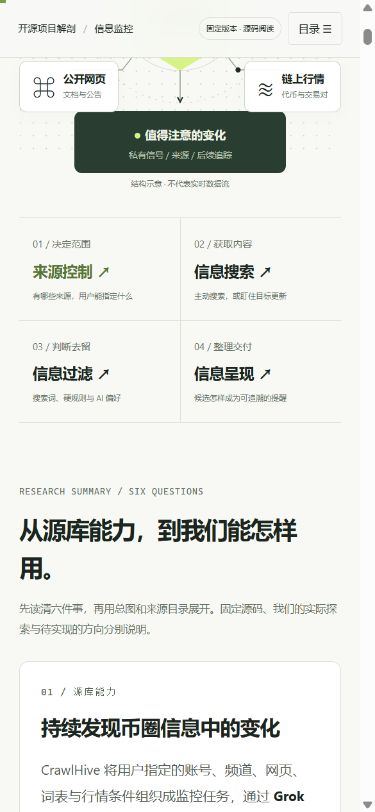
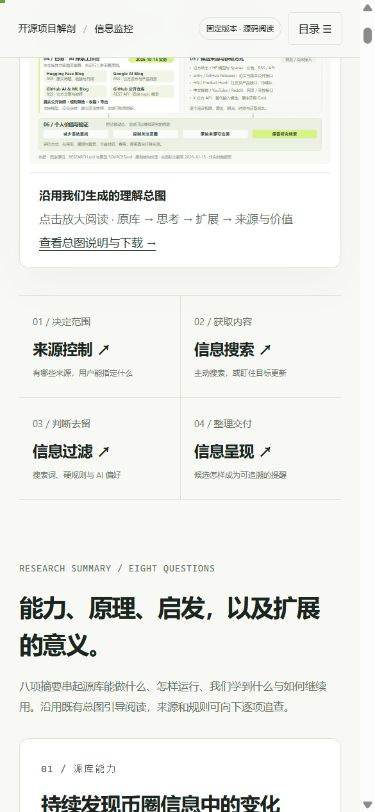
docs(013): 保存八项摘要版本的公网验收与原图沿用记录

diff --git a/projects/013-crawl-hive/README.md b/projects/013-crawl-hive/README.md
@@ -86,7 +86,7 @@ npm run refresh:data
 
 ## 公开部署与验证
 
-已通过既有GitHub Actions发布，完整站点保留原七个项目。26份首发静态文件、19个入口与资料地址、101个唯一页面编号已核对；浏览器确认摘要、来源筛选、工作台快照与桌面／手机布局。公开构建不请求采集API或本机地址，不含服务端和运行缓存。完整记录见[部署记录](deployment.json)与[HTTP验收](public-verification.json)。
+已通过既有GitHub Actions发布，完整站点保留原七个项目。首发26份静态文件、19个入口与101个页面编号的记录保留；本次八项摘要更新后，28份静态文件字节、19个入口与资料地址、102个唯一页面编号再次核对通过。浏览器确认首页既有总图、放大、八项摘要、总站入口导航及桌面／手机布局。公开构建不请求采集API或本机地址，不含服务端和运行缓存。完整记录见[部署记录](deployment.json)与[HTTP验收](public-verification.json)。
 
 ## 网页预览
 

diff --git a/projects/013-crawl-hive/assets/README.md b/projects/013-crawl-hive/assets/README.md
@@ -38,3 +38,8 @@
 ## 2026-10-19 公网部署验收
 
 `public-summary.jpg`与`public-summary-mobile.jpg`为正式GitHub Pages摘要的浏览器实际截图，分别使用1280px桌面和390px手机视口。只证明摘要显示与布局；历史快照仍为10-15数据，不能据此证明上游已运行或候选已接通。
+
+
+## 八项摘要与既有引导图的发布更新
+
+`public-guide-home.jpg` 是正式站点首屏的实际浏览器截图，展示沿用的理解总图及四环节入口。`public-summary.jpg` 与 `public-summary-mobile.jpg` 更新为八项摘要版本的实际截图，分别使用 1280px 桌面和 390px 手机视口。沿用的 `web/media/understanding-map.svg`、`understanding-overview.jpg` 内容未改动，原图字节摘要见部署记录 `latestRevision.guide`。这些截图只说明研究网页的显示与导航，不代表重新运行上游、采集新数据或接入候选。
